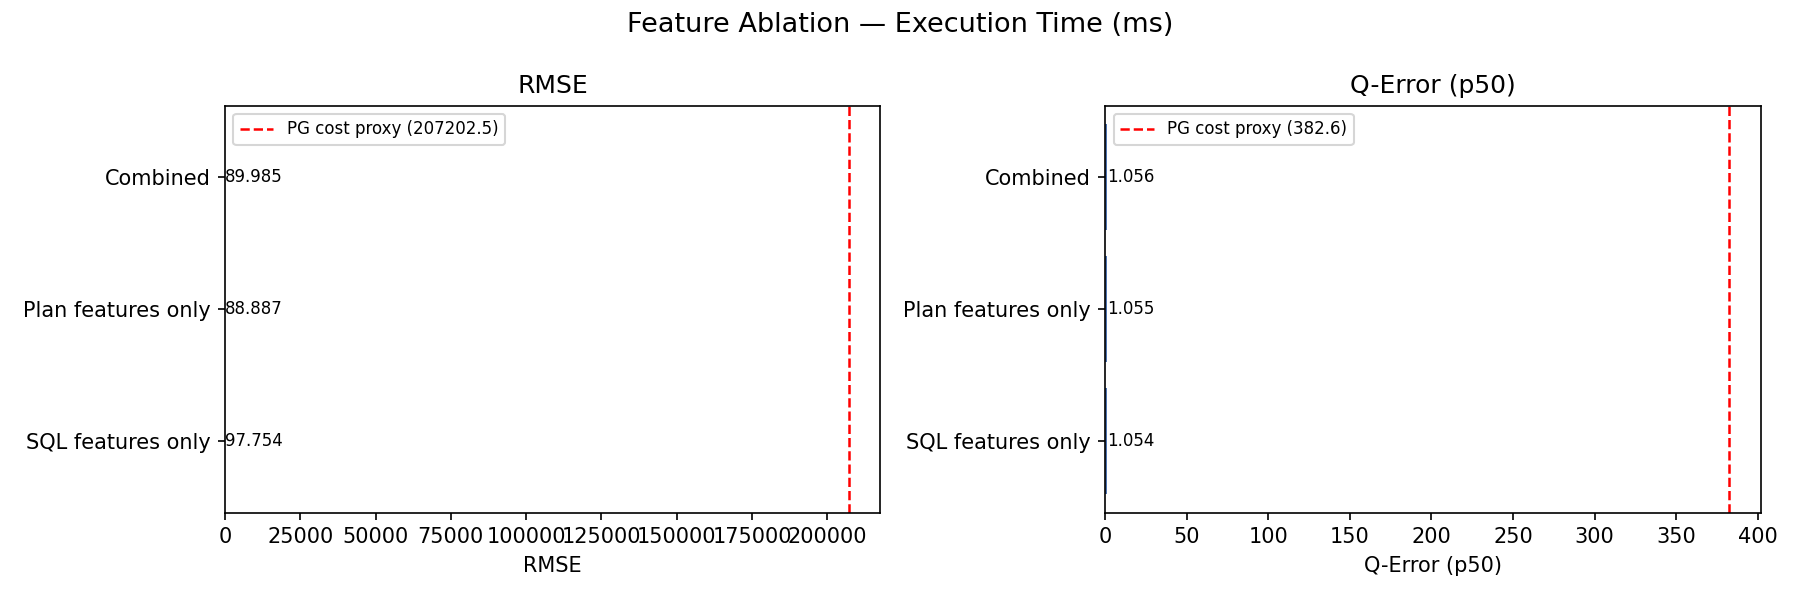
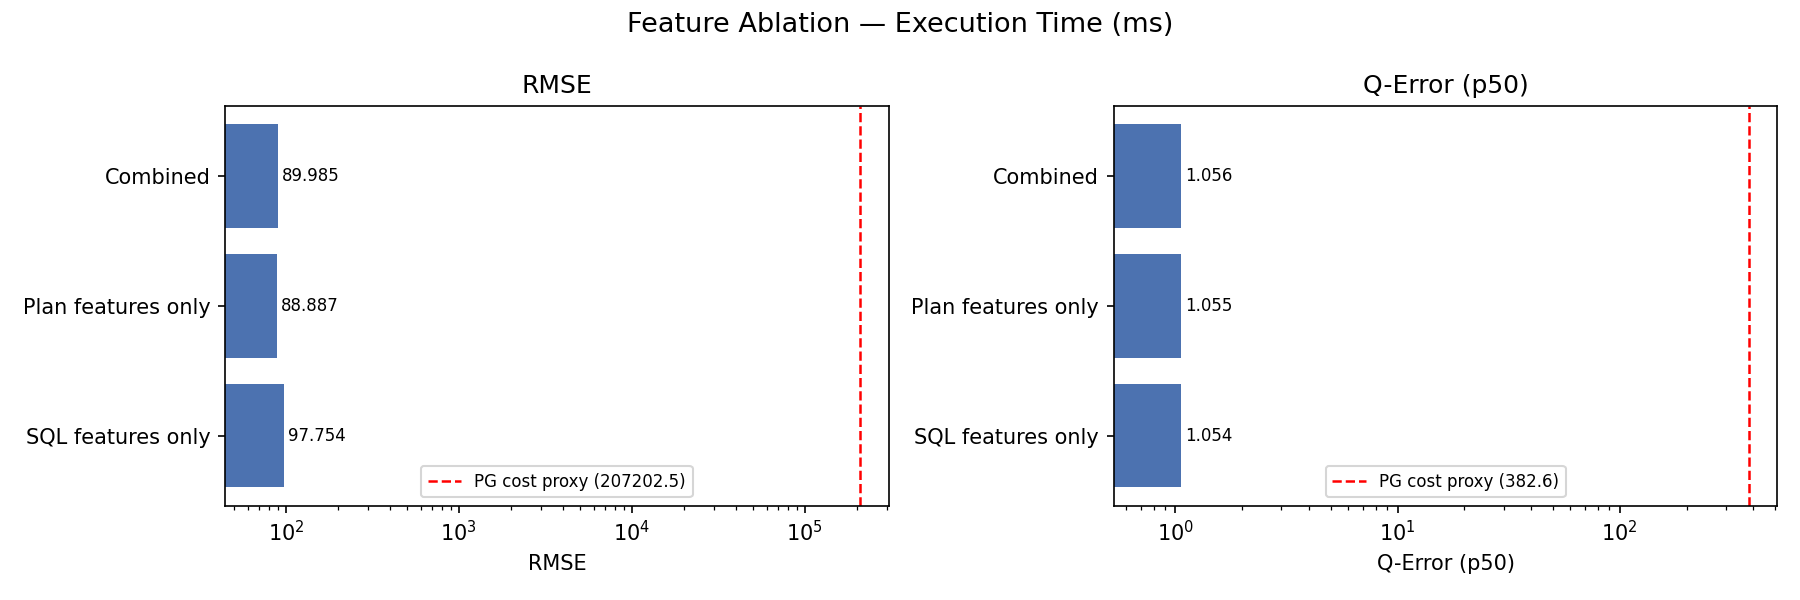
Fix figure scales

diff --git a/src/ivory/report_assets.py b/src/ivory/report_assets.py
@@ -217,7 +217,7 @@ def _fig_ablation_execution_time(ablations: dict[str, Any]) -> None:
         bars = ax.barh(condition_labels, values, color="#4c72b0")
         for bar, val in zip(bars, values):
             ax.text(
-                val * 1.01, bar.get_y() + bar.get_height() / 2,
+                val * 1.05, bar.get_y() + bar.get_height() / 2,
                 f"{val:.3f}", va="center", fontsize=8,
             )
 
@@ -232,7 +232,8 @@ def _fig_ablation_execution_time(ablations: dict[str, Any]) -> None:
         metric_label = "RMSE" if metric == "rmse" else "Q-Error (p50)"
         ax.set_xlabel(metric_label)
         ax.set_title(metric_label)
-        ax.set_xlim(left=0)
+        ax.set_xscale("log")
+        ax.set_xlim(left=max(min(v for v in values if v > 0) * 0.5, 1e-3))
 
     fig.tight_layout()
     fig.savefig(FIGURES_DIR / "fig_ablation_execution_time.png", dpi=150)
@@ -255,21 +256,47 @@ def _fig_q_error_by_template(error_df: pl.DataFrame) -> None:
         for tid in template_order
     }
 
+    worst_template = template_order[0]
+    colors = ["#c44e52" if tid == worst_template else "#4c72b0" for tid in template_order]
+
     fig, ax = plt.subplots(figsize=(13, 5))
-    ax.boxplot(
+    bp = ax.boxplot(
         [data_by_template[tid] for tid in template_order],
         labels=template_order,
         vert=True,
         patch_artist=True,
-        boxprops={"facecolor": "#4c72b0", "alpha": 0.6},
         medianprops={"color": "black", "linewidth": 1.5},
         flierprops={"marker": ".", "markersize": 3},
     )
-    ax.axhline(y=1.0, color="gray", linestyle="--", linewidth=0.8)
+    for patch, color in zip(bp["boxes"], colors):
+        patch.set_facecolor(color)
+        patch.set_alpha(0.6)
+
+    # annotate median value above each box
+    for i, tid in enumerate(template_order):
+        median_val = sorted(data_by_template[tid])[len(data_by_template[tid]) // 2]
+        ax.text(
+            i + 1, median_val * 1.04, f"{median_val:.2f}",
+            ha="center", va="bottom", fontsize=8, color="black",
+        )
+
+    ax.axhline(y=1.0, color="gray", linestyle="--", linewidth=0.8, label="Perfect (Q-Error = 1)")
+    ax.set_yscale("log")
+    all_vals = [v for vals in data_by_template.values() for v in vals if v > 0]
+    y_min = max(min(all_vals) * 0.9, 0.9)
+    y_max = max(all_vals) * 1.1
+    ax.set_ylim(y_min, y_max)
+    import math
+    tick_candidates = [0.5, 1, 1.5, 2, 2.5, 3, 3.5, 4, 4.5, 5, 6, 7, 8, 10]
+    yticks = [t for t in tick_candidates if y_min <= t <= y_max]
+    ax.set_yticks(yticks)
+    ax.yaxis.set_major_formatter(plt.matplotlib.ticker.FuncFormatter(lambda x, _: f"{x:g}"))
+    ax.yaxis.set_minor_formatter(plt.matplotlib.ticker.NullFormatter())
     ax.set_xlabel("Query Template")
-    ax.set_ylabel("Q-Error")
+    ax.set_ylabel("Q-Error (log scale)")
     ax.set_title("Q-Error Distribution per Template — Execution Time (ms)")
-    ax.tick_params(axis="x", labelsize=8)
+    ax.tick_params(axis="x", labelsize=9)
+    ax.legend(fontsize=8)
     fig.tight_layout()
     fig.savefig(FIGURES_DIR / "fig_q_error_by_template.png", dpi=150)
     plt.close(fig)
